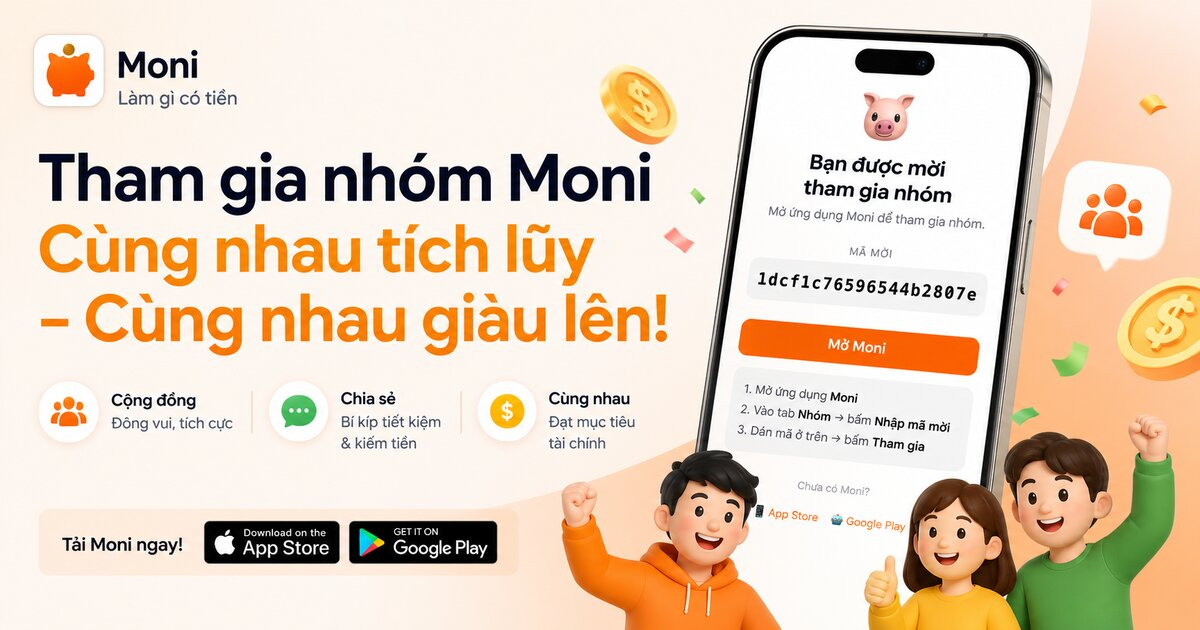
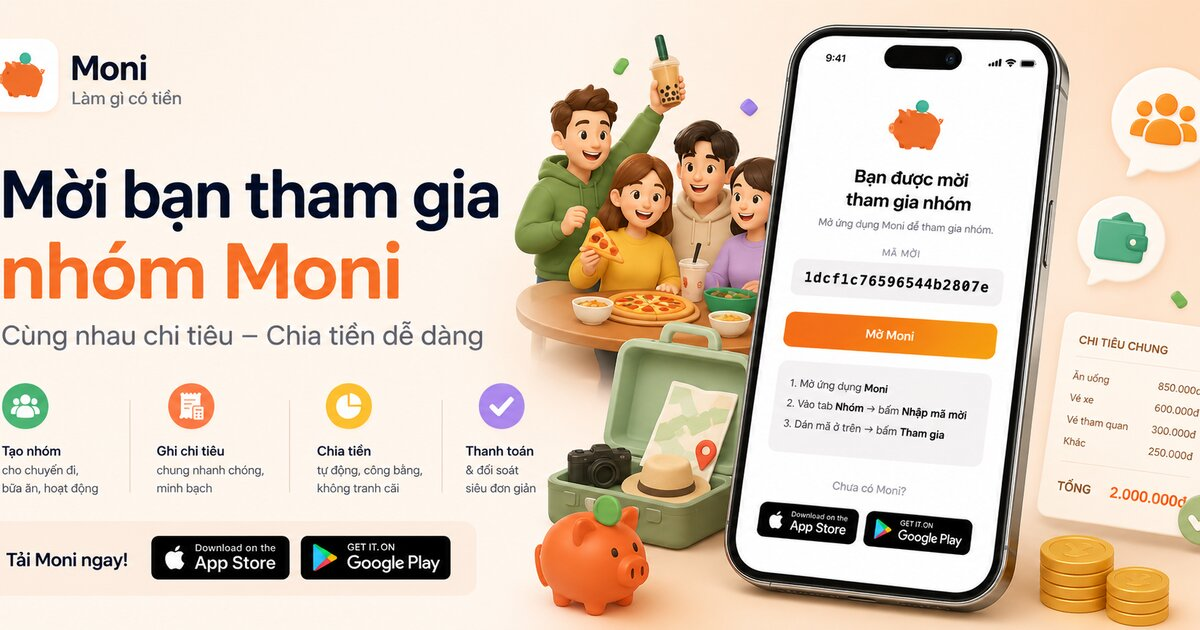
seo: update invite page OG image to new design

diff --git a/invite/index.html b/invite/index.html
@@ -12,8 +12,8 @@
   <meta property="og:type" content="website" />
   <meta property="og:url" content="https://moni.live/invite/" />
   <meta property="og:site_name" content="Moni" />
-  <meta property="og:image" content="https://moni.live/images/og-image-invite.jpg?v=1" />
-  <meta property="og:image:secure_url" content="https://moni.live/images/og-image-invite.jpg?v=1" />
+  <meta property="og:image" content="https://moni.live/images/og-image-invite.jpg?v=2" />
+  <meta property="og:image:secure_url" content="https://moni.live/images/og-image-invite.jpg?v=2" />
   <meta property="og:image:width" content="1200" />
   <meta property="og:image:height" content="630" />
   <meta property="og:image:type" content="image/jpeg" />
@@ -21,7 +21,7 @@
   <meta name="twitter:card" content="summary_large_image" />
   <meta name="twitter:title" content="Tham gia nhóm trên Moni" />
   <meta name="twitter:description" content="Bạn được mời tham gia nhóm chi tiêu trên Moni" />
-  <meta name="twitter:image" content="https://moni.live/images/og-image-invite.jpg?v=1" />
+  <meta name="twitter:image" content="https://moni.live/images/og-image-invite.jpg?v=2" />
   <style>
     * { margin: 0; padding: 0; box-sizing: border-box; }
     body {
